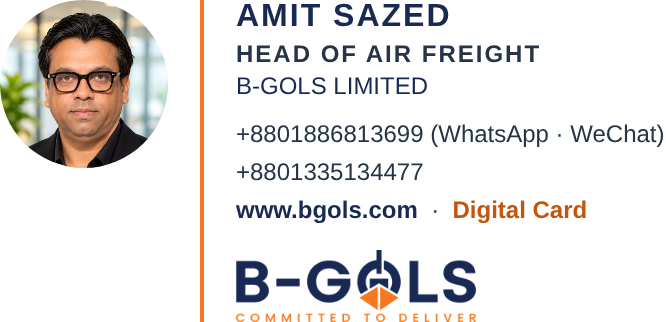
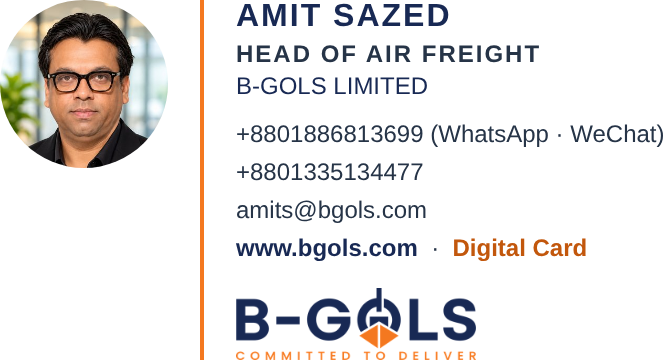
Add email amits@bgols.com
Claude-Session: https://claude.ai/code/session_01TprP1ieCAEd2tQhQxghHUL

diff --git a/index.html b/index.html
@@ -151,6 +151,7 @@
         <ul class="list">
           <li><a class="row" href="tel:+8801886813699"><span class="r-ico"><svg><use href="#i-phone"/></svg></span><span class="r-text"><b>Call Mobile 1</b><small>+8801886813699 · WhatsApp · WeChat</small></span><svg class="r-go"><use href="#i-chevron"/></svg></a></li>
           <li><a class="row" href="tel:+8801335134477"><span class="r-ico"><svg><use href="#i-phone"/></svg></span><span class="r-text"><b>Call Mobile 2</b><small>+8801335134477</small></span><svg class="r-go"><use href="#i-chevron"/></svg></a></li>
+          <li><a class="row" href="mailto:amits@bgols.com"><span class="r-ico"><svg><use href="#i-mail"/></svg></span><span class="r-text"><b>Email</b><small>amits@bgols.com</small></span><svg class="r-go"><use href="#i-chevron"/></svg></a></li>
           <li><a class="row" href="https://wa.me/8801886813699" target="_blank" rel="noopener"><span class="r-ico"><svg><use href="#i-whatsapp"/></svg></span><span class="r-text"><b>WhatsApp</b><small>+8801886813699</small></span><svg class="r-go"><use href="#i-external"/></svg></a></li>
           <li><button class="row" type="button" data-open-wechat><span class="r-ico"><svg><use href="#i-wechat"/></svg></span><span class="r-text"><b>WeChat</b><small>Search by mobile number</small></span><svg class="r-go"><use href="#i-chevron"/></svg></button></li>
           <li><a class="row" href="https://www.bgols.com/" target="_blank" rel="noopener"><span class="r-ico"><svg><use href="#i-globe"/></svg></span><span class="r-text"><b>Visit Company Website</b><small>www.bgols.com</small></span><svg class="r-go"><use href="#i-external"/></svg></a></li>

diff --git a/email-signature.html b/email-signature.html
@@ -37,6 +37,7 @@
             <div style="font-size:12px;line-height:19px;padding-top:8px;">
               <a href="tel:+8801886813699" style="color:#263447;text-decoration:none;">+8801886813699</a> (WhatsApp · WeChat)<br>
               <a href="tel:+8801335134477" style="color:#263447;text-decoration:none;">+8801335134477</a><br>
+              <a href="mailto:amits@bgols.com" style="color:#263447;text-decoration:none;">amits@bgols.com</a><br>
               <a href="https://www.bgols.com/" style="color:#182954;text-decoration:none;font-weight:bold;">www.bgols.com</a>
               &nbsp;·&nbsp; <a id="cardLink" href="./" style="color:#C2570C;text-decoration:none;font-weight:bold;">Digital Card</a>
             </div>

diff --git a/card.html b/card.html
@@ -97,6 +97,7 @@
           <div class="f-lines">
             <a href="tel:+8801886813699"><svg><use href="#i-phone"/></svg>+8801886813699 · WhatsApp · WeChat</a>
             <a href="tel:+8801335134477"><svg><use href="#i-phone"/></svg>+8801335134477</a>
+            <a href="mailto:amits@bgols.com"><svg><use href="#i-mail"/></svg>amits@bgols.com</a>
             <a href="https://www.bgols.com/" target="_blank" rel="noopener"><svg><use href="#i-globe"/></svg>www.bgols.com</a>
             <p><svg><use href="#i-pin"/></svg><span>B&amp;T NEHALEEYA TOWER, Level-7, Holding No. 80B, Kemal Ataturk Avenue, P.S. Banani, Dhaka-1213, Bangladesh.</span></p>
           </div>

diff --git a/sw.js b/sw.js
@@ -3,7 +3,7 @@
 // Cache names carry this card's own prefix: two cards share the alshams8.github.io origin,
 // so each card must only ever delete its own old caches.
 const PREFIX = "amit-card-";
-const VERSION = PREFIX + "v8";
+const VERSION = PREFIX + "v9";
 const CORE = [
   "./", "index.html", "card.html", "nfc-setup.html", "email-signature.html", "css/styles.css", "js/config.js", "js/app.js", "contact.vcf",
   "manifest.webmanifest",
